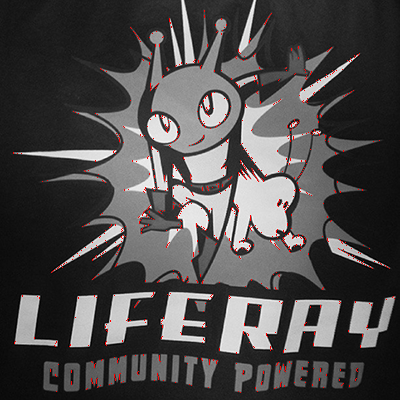
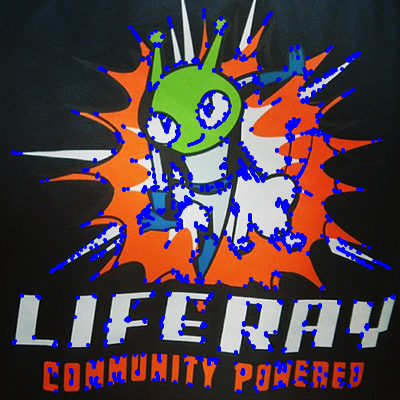
change part of image generation

diff --git a/main.go b/main.go
@@ -4,35 +4,21 @@ import (
 	"fmt"
 	"image"
 	"image/color"
-	"image/png" // register the PNG format with the image package
-	"os"
 
+	"github.com/fogleman/gg"
 	"github.com/lafin/fast"
 )
 
 func main() {
-	infile, err := os.Open("image_1.png")
-	if err != nil {
-		// replace this with real error handling
-		panic(err)
-	}
-	defer infile.Close()
-
-	// Decode will figure out what type of image is in the file on its own.
-	// We just have to be sure all the image packages we want are imported.
-	src, _, err := image.Decode(infile)
-	if err != nil {
-		// replace this with real error handling
-		panic(err)
-	}
+	img, _ := gg.LoadImage("image_1.png")
 
 	// Create a new grayscale image
-	bounds := src.Bounds()
+	bounds := img.Bounds()
 	w, h := bounds.Max.X, bounds.Max.Y
 	gray := image.NewGray(image.Rectangle{image.Point{0, 0}, image.Point{w, h}})
 	for x := 0; x < w; x++ {
 		for y := 0; y < h; y++ {
-			oldColor := src.At(x, y)
+			oldColor := img.At(x, y)
 			grayColor := color.GrayModel.Convert(oldColor)
 			gray.Set(x, y, grayColor)
 		}
@@ -44,26 +30,13 @@ func main() {
 	}
 
 	cornerList := fast.FindCorners(pixList, w, h, 20)
-	newImage := image.NewRGBA(image.Rectangle{image.Point{0, 0}, image.Point{w, h}})
-	for x := 0; x < w; x++ {
-		for y := 0; y < h; y++ {
-			oldColor := src.At(x, y)
-			grayColor := color.GrayModel.Convert(oldColor)
-			newImage.Set(x, y, grayColor)
-		}
-	}
+	dc := gg.NewContextForImage(img)
 	for i := 0; i < len(cornerList); i += 2 {
-		newImage.Set(cornerList[i], cornerList[i+1], color.RGBA{255, 0, 0, 255})
+		dc.DrawCircle(float64(cornerList[i]), float64(cornerList[i+1]), 2)
 	}
+	dc.SetHexColor("#0000FF")
+	dc.Fill()
+	dc.SavePNG("image_2.png")
 
-	// Encode the grayscale image to the output file
-	outfile, err := os.Create("image_2.png")
-	if err != nil {
-		// replace this with real error handling
-		panic(err)
-	}
-
-	defer outfile.Close()
-	png.Encode(outfile, newImage)
 	fmt.Println("done")
 }
